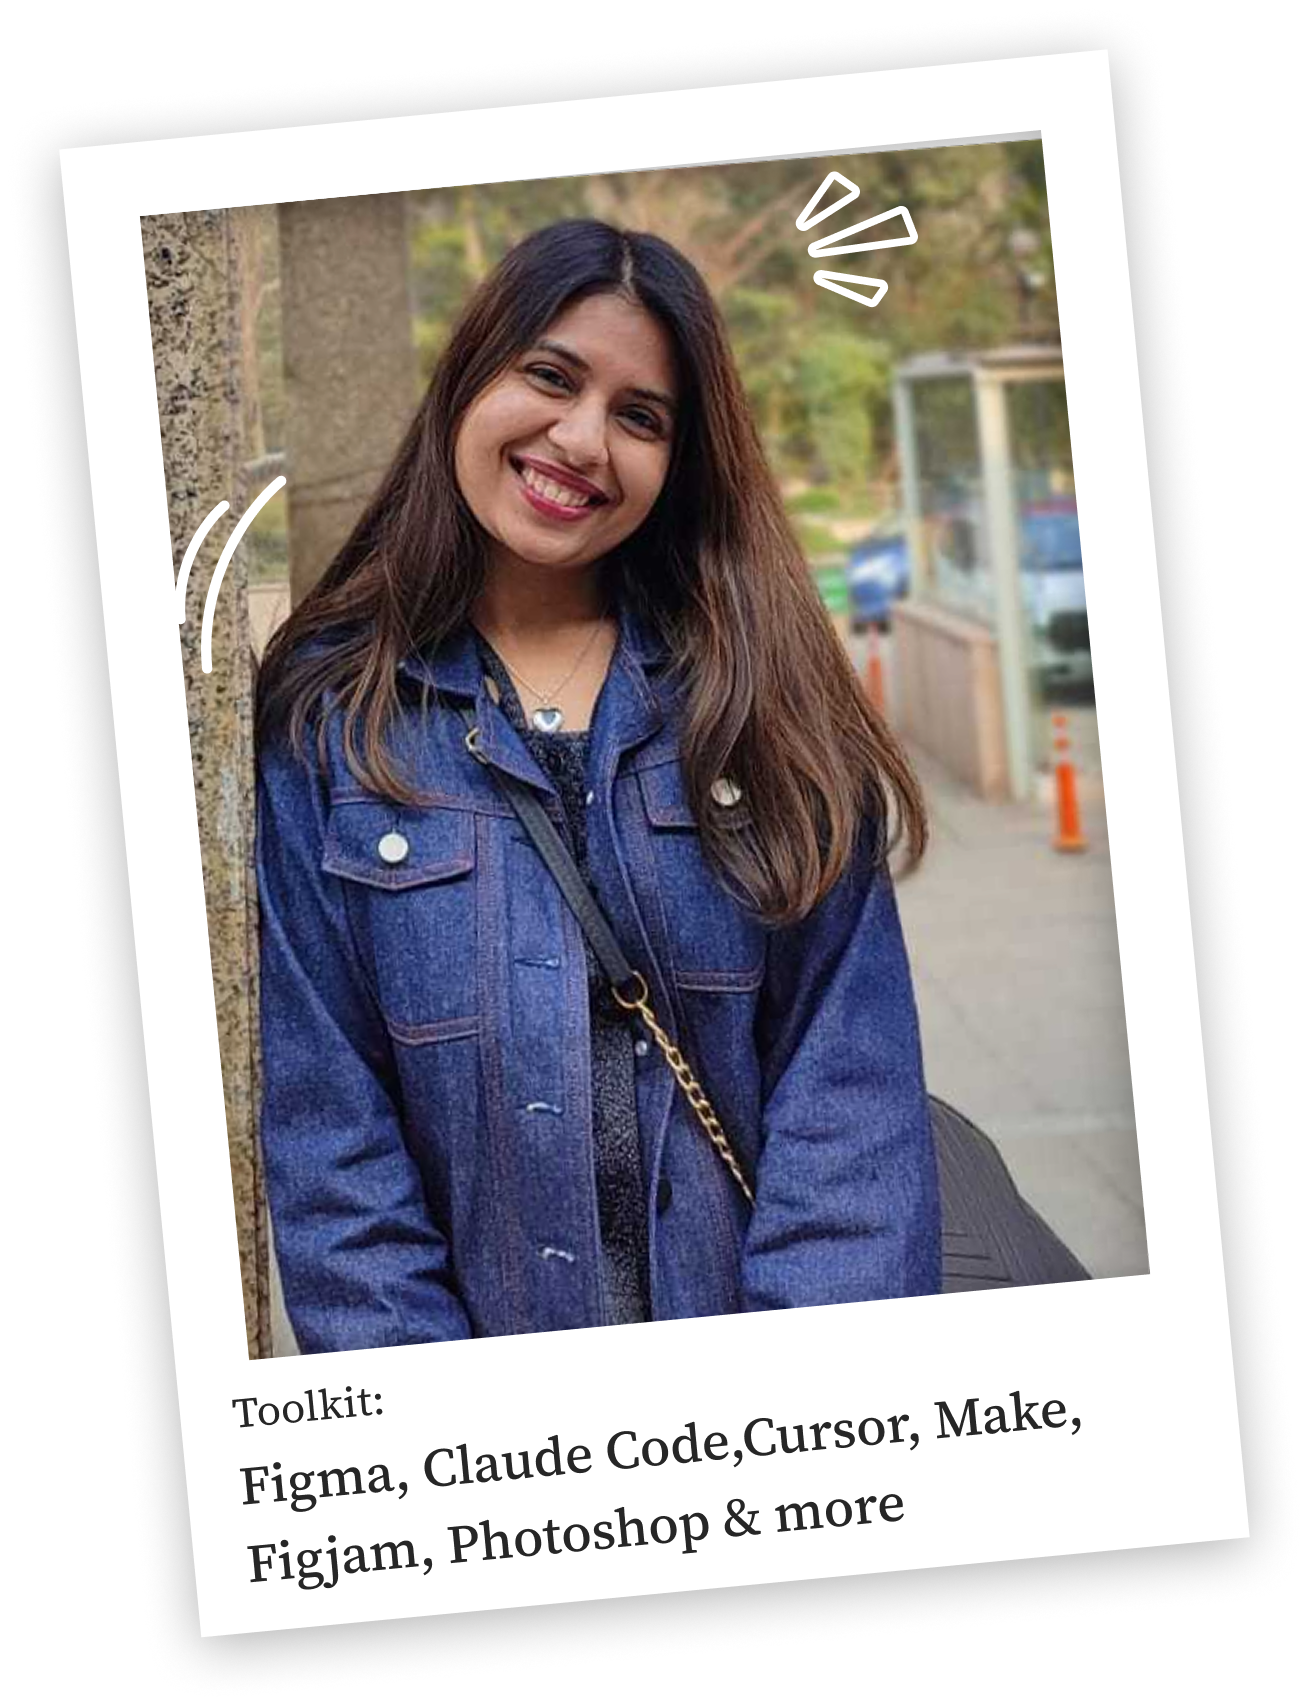
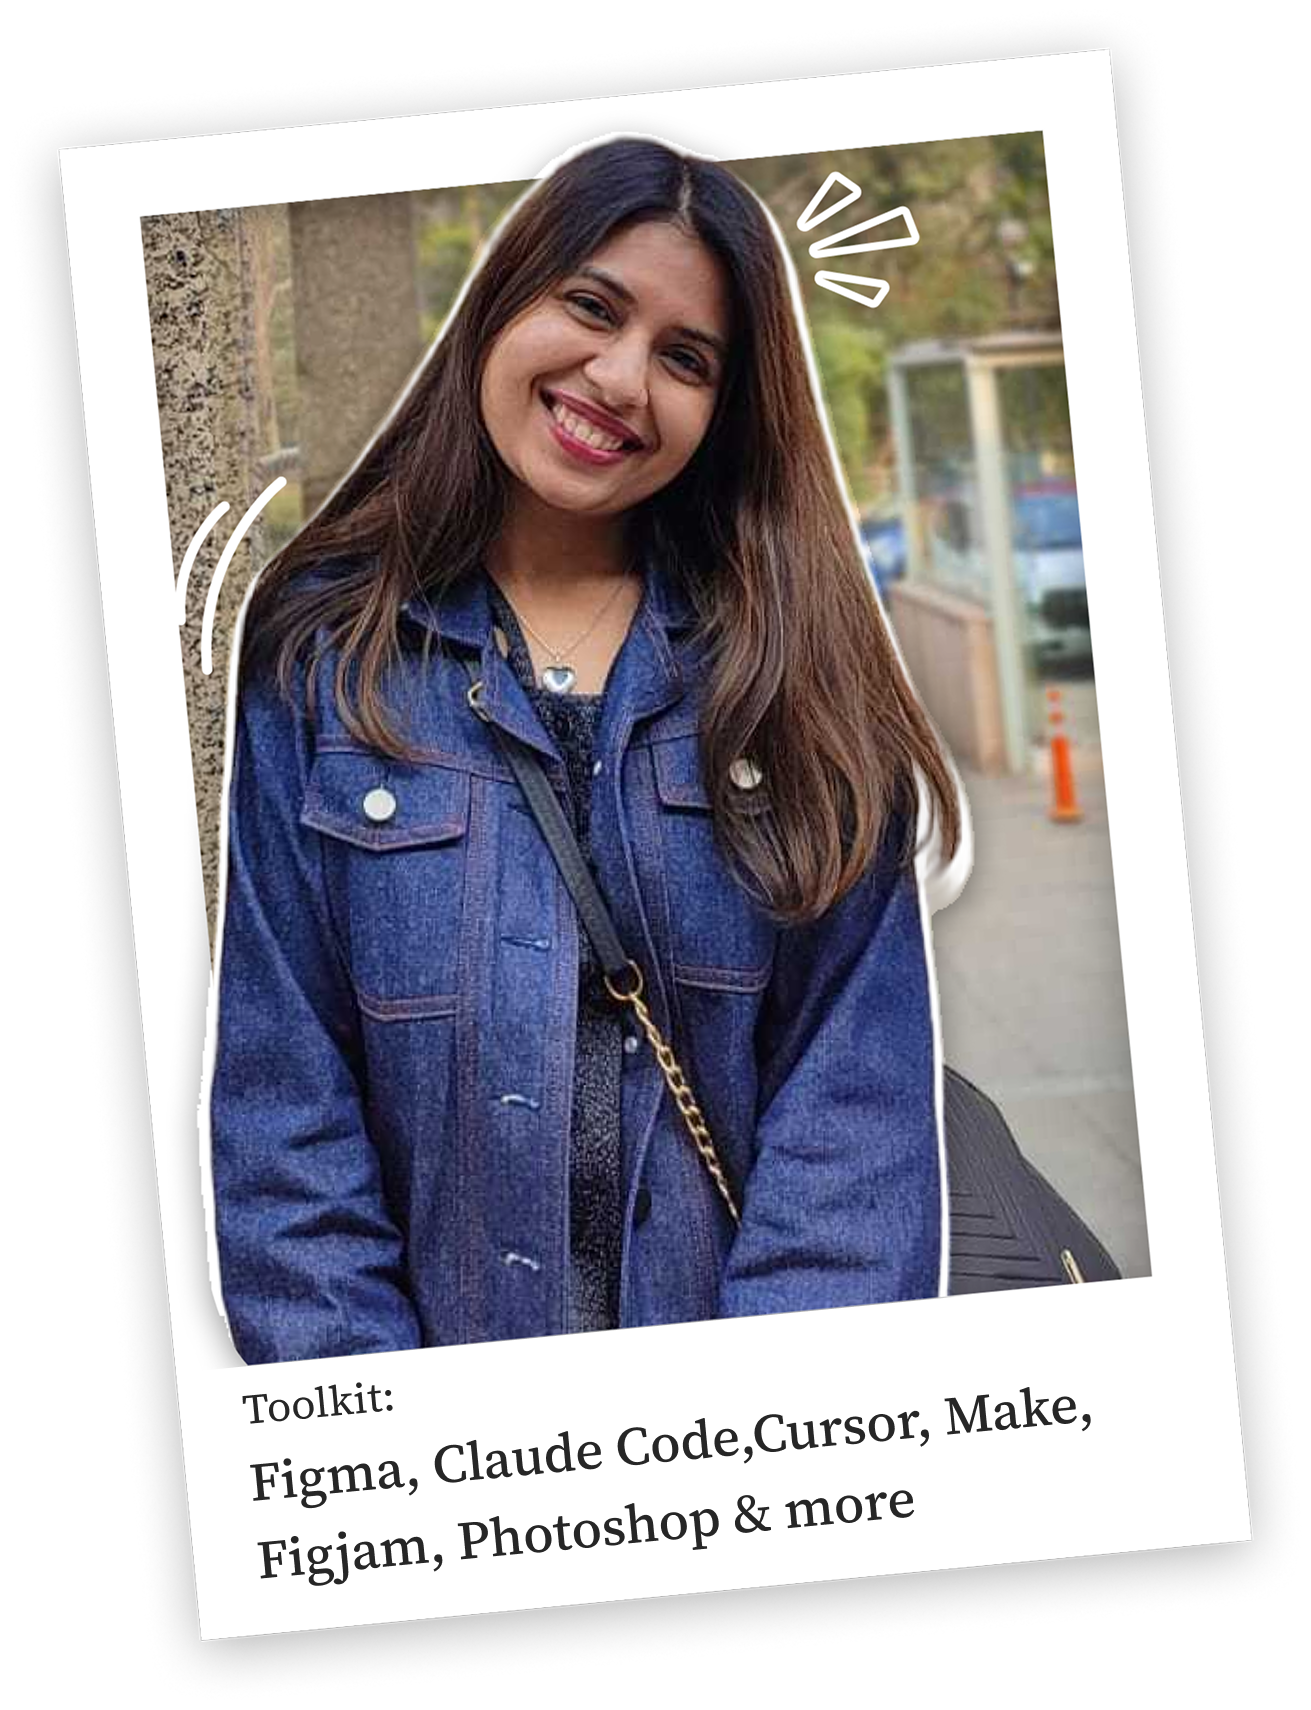
Add files via upload

Changed region(s): [[0.0917, 0.0621, 0.8556, 0.9315]]

diff --git a/index.html b/index.html
@@ -6,7 +6,7 @@
   <title>Sreejita Mookherjee — Portfolio</title>
   <link rel="icon" type="image/png" href="assets/avatar.png">
   <link rel="apple-touch-icon" href="assets/avatar.png">
-  <link rel="stylesheet" href="styles.css?v=115">
+  <link rel="stylesheet" href="styles.css?v=119">
 </head>
 <body>
 
@@ -74,7 +74,7 @@
               <svg viewBox="0 0 24 24" fill="none" stroke="#fff" stroke-width="2" stroke-linecap="round" stroke-linejoin="round"><path d="M12 5v14M6 13l6 6 6-6" /></svg>
             </button>
 
-            <img class="p1-photo-card" data-anim="photoIn" src="assets/p1-hero-photo.png" alt="Sreejita Mookherjee" />
+            <img class="p1-photo-card" data-anim="photoIn" src="assets/p1-hero-photo.png?v=2" alt="Sreejita Mookherjee" />
 
             <div class="sphere" data-anim="pop">
               <img class="sphere-badge" src="assets/sphere.svg" alt="" />
@@ -318,7 +318,7 @@
 
             <div class="p3-photo-group">
               <img class="p3-tools-strip" data-anim="toolsIn" src="assets/p3/tools-strip.png" alt="Figma, Claude, Cursor, Photoshop" loading="lazy" decoding="async" />
-              <img class="p3-photo-card" data-anim="photoIn" src="assets/p3/photo-card.png?v=2" alt="Sreejita Mookherjee — Toolkit: Figma, Claude Code, Cursor, Make, Figjam, Photoshop & more" loading="lazy" decoding="async" />
+              <img class="p3-photo-card" data-anim="photoIn" src="assets/p3/photo-card.png?v=3" alt="Sreejita Mookherjee — Toolkit: Figma, Claude Code, Cursor, Make, Figjam, Photoshop & more" loading="lazy" decoding="async" />
             </div>
 
             <div class="p3-bio-text" data-anim="up">

diff --git a/styles.css b/styles.css
@@ -26,6 +26,18 @@
   src: url('assets/fonts/source-serif-4-regular.woff2') format('woff2');
 }
 
+/* Light (300) — for the work-card subtitle, which needed a weight
+   below Regular (the only one self-hosted until now). Same lesson as
+   Oswald Medium above: without an actual Light file registered,
+   `font-weight: 300` would've just fallen back to Regular. */
+@font-face {
+  font-family: 'Source Serif 4';
+  font-style: normal;
+  font-weight: 300;
+  font-display: swap;
+  src: url('assets/fonts/source-serif-4-light.woff2') format('woff2');
+}
+
 :root {
   --bg: #f4efe7;
   --ink: #262626;
@@ -423,7 +435,7 @@ body.js-flip .panel {
   flex: 1 1 auto; min-width: 0;
   overflow: hidden; white-space: nowrap; text-overflow: ellipsis;
 }
-.pcard__cap p { font-family: "Source Serif 4", serif; font-size: 15px; line-height: 1.2; color: #262626; margin: 4px 0 0; letter-spacing: normal; }
+.pcard__cap p { font-family: "Source Serif 4", serif; font-weight: 400; font-size: 14px; line-height: 1.2; color: var(--ink); opacity: 0.72; margin: 4px 0 0; letter-spacing: normal; }
 
 /* arrow badge — animates in on the focused/centred card. Collapsed to
    width: 0 (not just opacity: 0) by default so it reserves no space at
@@ -1320,7 +1332,7 @@ body.js-flip .panel {
   .pcard:nth-child(8) { z-index: 8; }
 
   .pcard__cap h3 {
-    font-size: 17px;
+    font-size: 18px;
     line-height: normal;
     overflow: hidden;
     white-space: normal;
